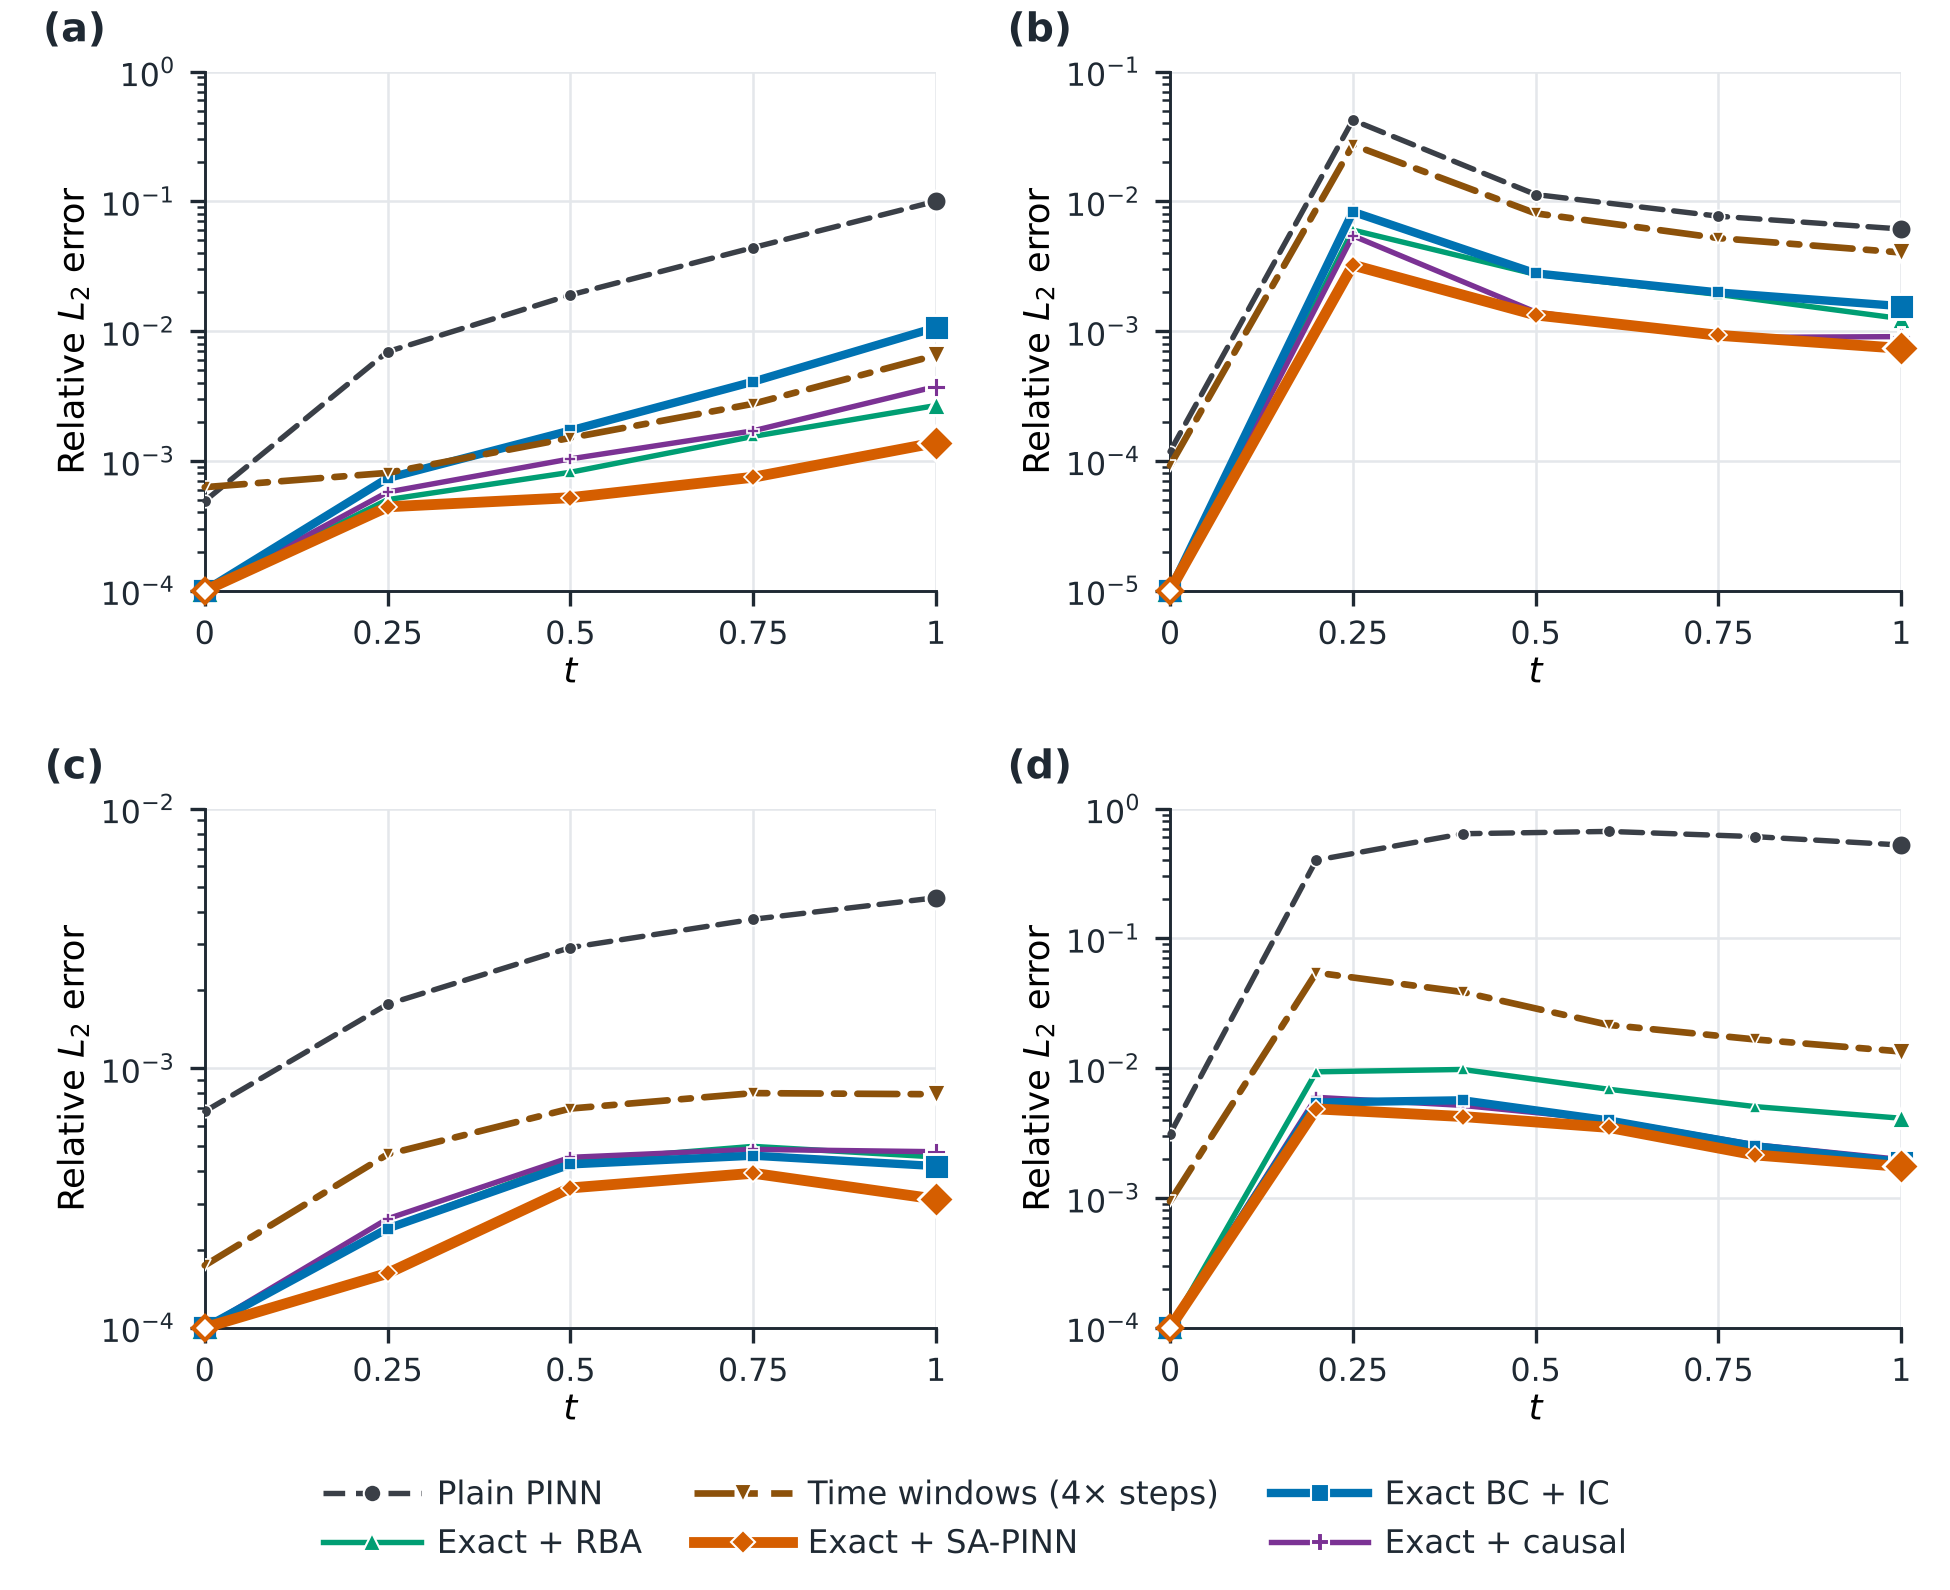
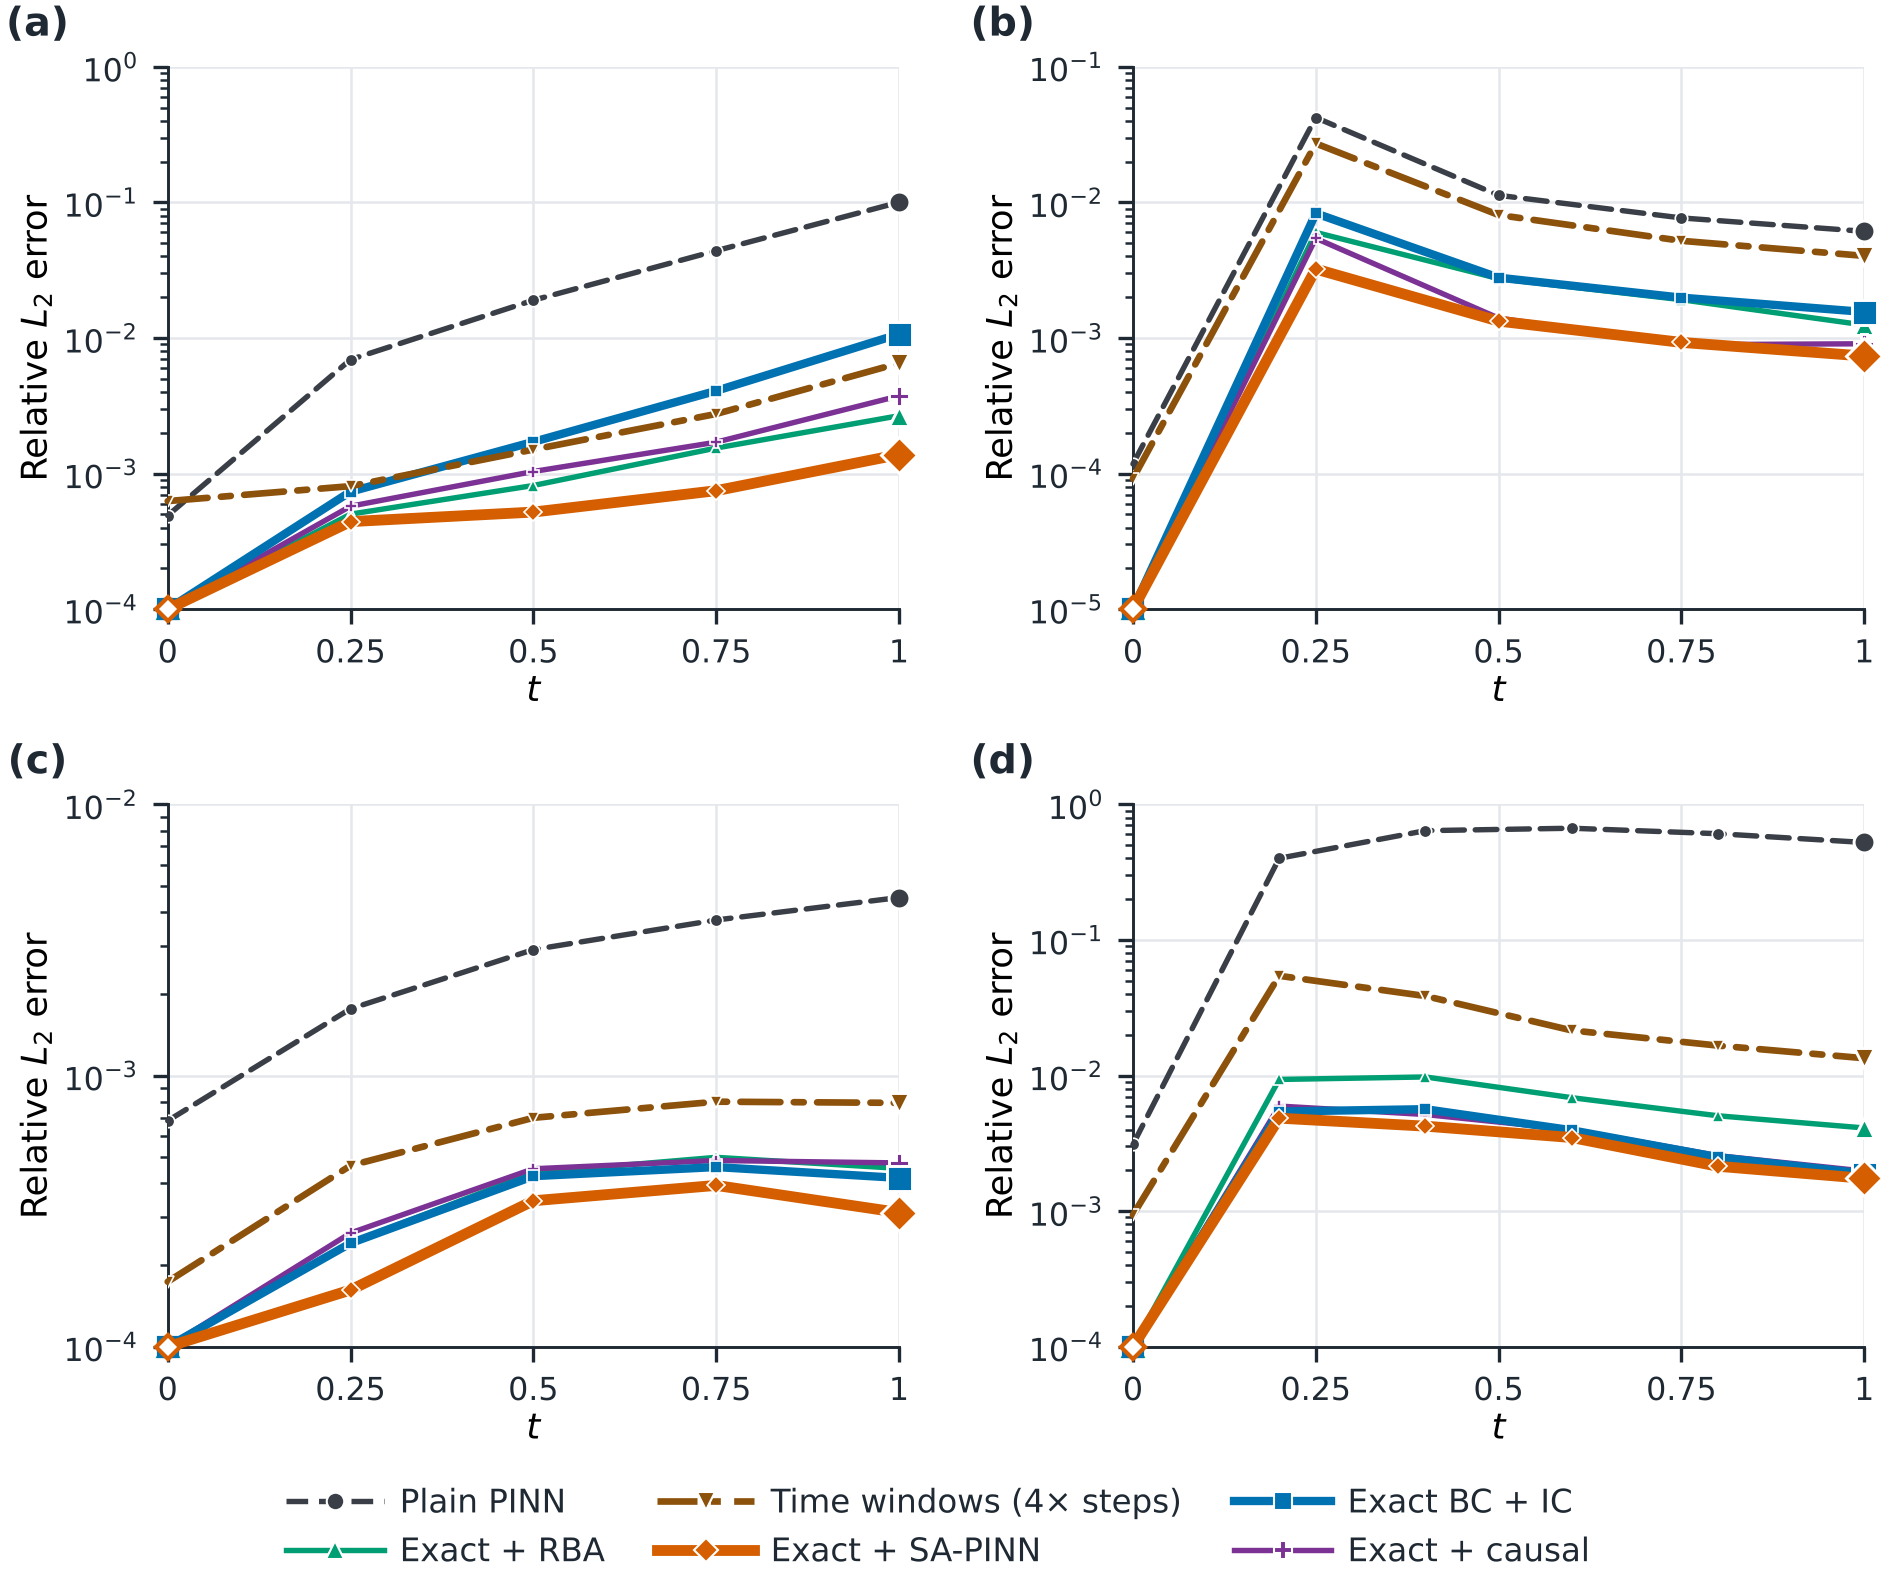
Figure 7, publication style: cropped to the drawing (no outer white space), tighter row gap

diff --git a/tools/make_methods_figure.py b/tools/make_methods_figure.py
@@ -346,17 +346,18 @@ def fig7(ex, name="paper_figure7", label_ends=False):
     h = [Line2D([], [], color=byl[l][2], ls=byl[l][3], lw=byl[l][4], marker=byl[l][5], ms=4.2, mec="white", mew=0.5)
          for l in order]
     fig.legend(h, order, loc="lower center", ncol=3, frameon=False, fontsize=7.8,
-               handlelength=3.0, handletextpad=0.5, columnspacing=1.6, bbox_to_anchor=(0.5, 0.0))
-    fig.subplots_adjust(left=0.105, right=0.925 if label_ends else 0.975, top=0.955, bottom=0.165,
-                        wspace=0.5 if label_ends else 0.32, hspace=0.42)
+               handlelength=3.0, handletextpad=0.5, columnspacing=1.6, bbox_to_anchor=(0.5, 0.0),
+               borderaxespad=0.1)
+    fig.subplots_adjust(left=0.105, right=0.925 if label_ends else 0.975, top=0.955, bottom=0.15,
+                        wspace=0.5 if label_ends else 0.32, hspace=0.36)
     fig.canvas.draw()
     for ax in axs.ravel():            # (a)-(d) centred over the y-axis title
         bb = ax.yaxis.label.get_window_extent()
         x = ax.transAxes.inverted().transform(((bb.x0 + bb.x1) / 2, 0))[0]
         ax.text(x, 1.04, ax._panel_letter, transform=ax.transAxes, fontsize=9.5, fontweight="bold",
                 va="bottom", ha="center")
-    for ext in ("png", "pdf"):
-        fig.savefig(os.path.join(OUT, f"{name}.{ext}"), dpi=300)
+    for ext in ("png", "pdf"):          # cropped to the drawing, with a hairline margin
+        fig.savefig(os.path.join(OUT, f"{name}.{ext}"), dpi=300, bbox_inches="tight", pad_inches=0.02)
     plt.close(fig)
 
 
